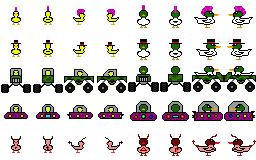
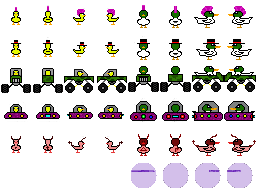
Adding the ectoplasma mob

diff --git a/src/main/java/com/github/tiwindetea/dungeonoflegend/model/LivingThing.java b/src/main/java/com/github/tiwindetea/dungeonoflegend/model/LivingThing.java
@@ -156,14 +156,18 @@ public abstract class LivingThing implements Descriptable {
 	 * @param damages damages taken by this
 	 */
 	public void damage(double damages) {
+		double diff;
 		if(damages > 0) {
-			double diff = this.getDefensePower() - damages;
+			diff = this.getDefensePower() - damages;
 			if (diff >= 0) {
 				diff = -1;
 			}
 			this.hitPoints += diff;
-			fireHealthUpdate(new LivingEntityHealthUpdateEvent(this.id, (double) (this.hitPoints) / (double) (this.maxHitPoints), (int) Math.round(diff)));
+		} else {
+			diff = Math.min(this.maxHitPoints - this.hitPoints, -damages);
+			this.hitPoints += diff;
 		}
+		fireHealthUpdate(new LivingEntityHealthUpdateEvent(this.id, this.hitPoints / this.maxHitPoints, (int) Math.round(diff)));
 	}
 
 	/**

diff --git a/src/main/java/com/github/tiwindetea/dungeonoflegend/view/entities/LivingEntityType.java b/src/main/java/com/github/tiwindetea/dungeonoflegend/view/entities/LivingEntityType.java
@@ -86,6 +86,12 @@ public enum LivingEntityType {
 		public String toString() {
 			return resourceBundle.getString("satanic-duck.string");
 		}
+	},
+	PEACEFUL_ECTOPLASMA {
+		@Override
+		public String toString() {
+			return resourceBundle.getString("peaceful-ectoplasma.string");
+		}
 	};
 
 	private final static String bundleName = MainPackage.name + ".LivingEntity";
@@ -208,6 +214,8 @@ public enum LivingEntityType {
 			return LITTLE_SATANIC_DUCK;
 		} else if (SATANIC_DUCK.toString().equals(str)) {
 			return SATANIC_DUCK;
+		} else if (PEACEFUL_ECTOPLASMA.toString().equals(str)) {
+			return PEACEFUL_ECTOPLASMA;
 		} else {
 			return null;
 		}

diff --git a/src/main/java/com/github/tiwindetea/dungeonoflegend/model/Mob.java b/src/main/java/com/github/tiwindetea/dungeonoflegend/model/Mob.java
@@ -312,9 +312,14 @@ public class Mob extends LivingThing {
 	@Override
 	public String getDescription() {
 		if (!this.nameAsked) {
-			this.name += " (Lv" + this.level + ".)\n"
-					+ "Power grade: " + (int) (5 * (this.attackPower / 11 + this.hitPoints / 10 + this.defensePower));
+			if (this.attackPower > 0) {
+				this.name += " (Lv" + this.level + ".)\n"
+						+ "Power grade: " + (int) (5 * (this.attackPower / 11 + this.hitPoints / 10 + this.defensePower));
+			} else {
+				this.name += "\nPeace and harmony on your people";
+			}
 		}
+		this.nameAsked = true;
 		return this.name;
 	}
 }

diff --git a/src/main/java/com/github/tiwindetea/dungeonoflegend/model/Player.java b/src/main/java/com/github/tiwindetea/dungeonoflegend/model/Player.java
@@ -448,12 +448,9 @@ public class Player extends LivingThing {
 		double def = 0;
 		for (Pair<Armor> armor : this.armors) {
 			if (armor != null && armor.object != null) {
-				System.out.println(armor.object.getDefensePowerModifier());
 				def += armor.object.getDefensePowerModifier();
 			}
 		}
-		System.out.println(this.defensePower);
-		System.out.println("\n");
 		return def + this.defensePower;
 	}
 	/**
